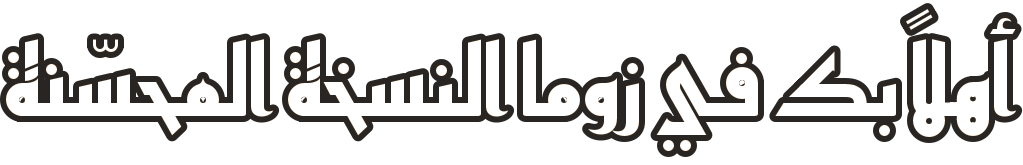
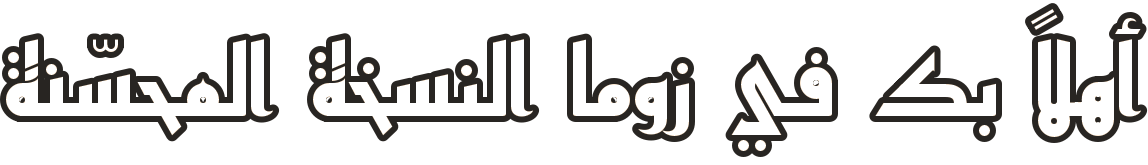
Welcome line: Arabic words spaced, English words closer
Claude-Session: https://claude.ai/code/session_01PLa1pRBxpEYJaiQfMqPxWP

Changed region(s): [[0.0, 0.1818, 0.7879, 0.9697], [0.7879, 0.0, 1.0, 0.8788], [0.1212, 0.697, 0.1818, 0.8485]]

diff --git a/src/menu/MenuMgr.c b/src/menu/MenuMgr.c
@@ -1450,8 +1450,24 @@ void MenuMgr_DrawWelcome(Engine *engine, MenuMgr* m) {
     SDL_Color white = {255, 255, 255, 255};
     /* Arabic: Kufi, a bit smaller so it sits nicely in the sky */
     bool ar = Lang_Get() == LANG_AR;
-    Engine_DrawTextExtScale(engine, "WELCOME TO ZUMA HD!", FONT_NATIVE_ALIEN_EXT_16,
-        ar ? 0.8f : 1.0f, white, false, true, 640, ar ? 6 : 0);
+    if (ar) {
+        Engine_DrawTextExtScale(engine, "WELCOME TO ZUMA HD!", FONT_NATIVE_ALIEN_EXT_16,
+            0.8f, white, false, true, 640, 6);
+        return;
+    }
+
+    /* English: the font's space is very wide, so put the words
+       closer together by hand */
+    const char* words[] = { "WELCOME", "TO", "ZUMA", "HD!" };
+    const int gap = 14;
+    int total = 0;
+    for (int i = 0; i < 4; i++)
+        total += Engine_GetTextWidth(engine, words[i], FONT_NATIVE_ALIEN_EXT_16) + (i ? gap : 0);
+    int x = 640 - total / 2;
+    for (int i = 0; i < 4; i++) {
+        Engine_DrawTextExt(engine, words[i], FONT_NATIVE_ALIEN_EXT_16, white, false, false, x, 0);
+        x += Engine_GetTextWidth(engine, words[i], FONT_NATIVE_ALIEN_EXT_16) + gap;
+    }
 }
 
 void MenuMgr_DrawProfiles(Engine *engine, MenuMgr* m) {
